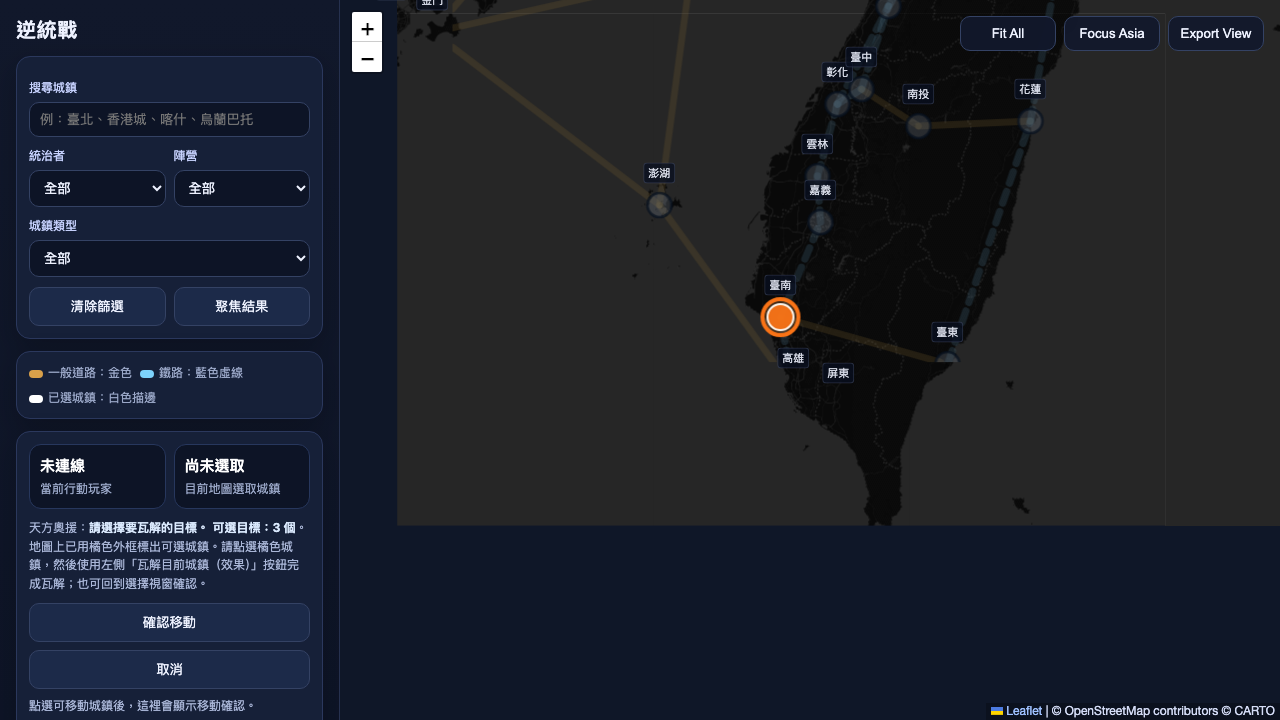
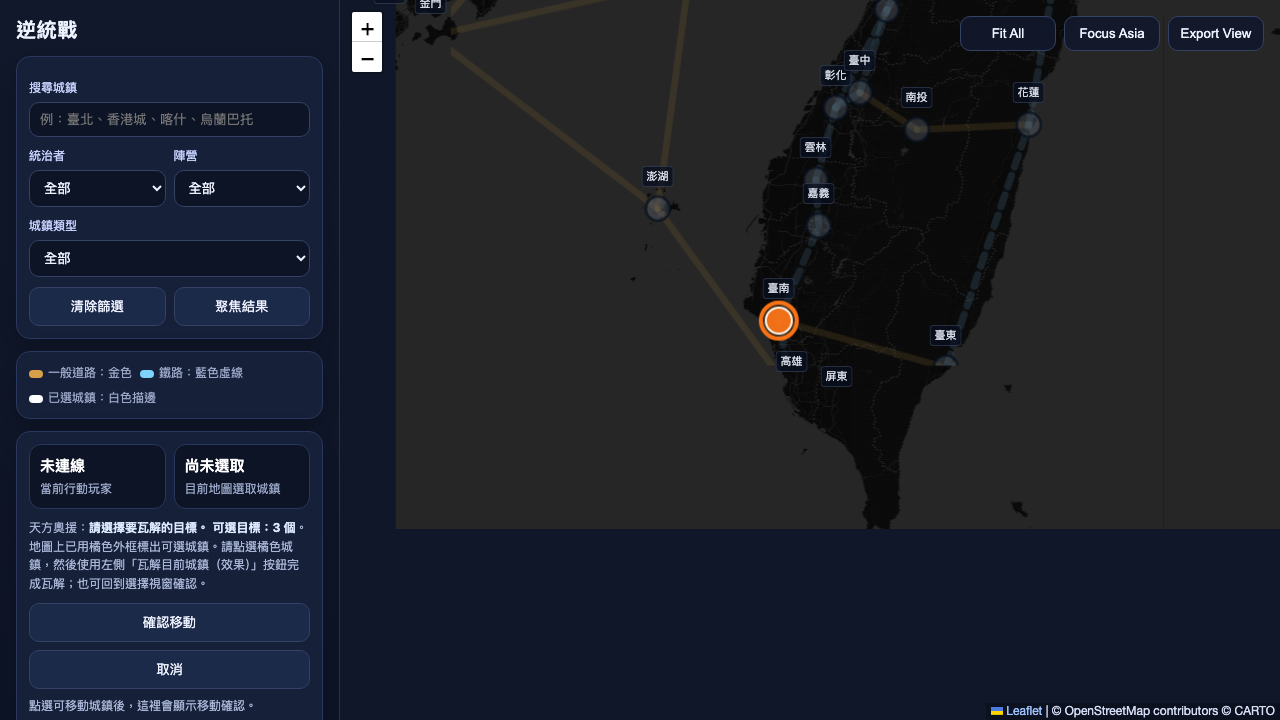
fix: don't double the source-name prefix in the map choice hint (P1)
The server build/target prompts already start with "<source>：" and the
map hint also prepends "${sourceName}：", so the hint read e.g.
"宣傳家：宣傳家：選擇要建立組織的城鎮。". renderSupportChoiceHighlights now
strips a leading "${sourceName}：" from the prompt before combining, so
the label prints once; prompts without that prefix (e.g. event builds)
still get the "來源：prompt" form unchanged.

Covered by a new assertion in validate_buildable_town_count.py (4/4)
and confirmed via a real 宣傳家 playthrough.

diff --git a/static/leaflet_game_map_logic.js b/static/leaflet_game_map_logic.js
@@ -281,7 +281,14 @@ function renderSupportChoiceHighlights(options = {}) {
       const countText = isBuildChoice
         ? `<span class="hint-strong">可建立城鎮：${bounds.length} 個</span>。`
         : `<span class="hint-strong">可選目標：${bounds.length} 個</span>。`;
-      hintEl.innerHTML = `${supportChoiceHighlight.sourceName || '當前選擇'}：<span class="hint-strong">${supportChoiceHighlight.prompt || '請依列表選擇目標。'}</span> ${countText}地圖上已用橘色外框標出可選城鎮。${focusText}${actionText}`;
+      const sourceLabel = supportChoiceHighlight.sourceName || '當前選擇';
+      // The server prompt often already carries a "<source>：" prefix; strip it so the label
+      // isn't printed twice (e.g. "宣傳家：宣傳家：…").
+      let promptText = supportChoiceHighlight.prompt || '請依列表選擇目標。';
+      if (supportChoiceHighlight.sourceName && promptText.startsWith(`${supportChoiceHighlight.sourceName}：`)) {
+        promptText = promptText.slice(`${supportChoiceHighlight.sourceName}：`.length);
+      }
+      hintEl.innerHTML = `${sourceLabel}：<span class="hint-strong">${promptText}</span> ${countText}地圖上已用橘色外框標出可選城鎮。${focusText}${actionText}`;
     }
     if (autoFocus) {
       focusSupportChoiceTargets(focusedBounds || bounds);

diff --git a/static/leaflet_game_map.html b/static/leaflet_game_map.html
@@ -147,6 +147,6 @@
 </div>
 
 <script src="https://unpkg.com/leaflet@1.9.4/dist/leaflet.js"></script>
-<script src="/static/leaflet_game_map_logic.js?v=buildable-count-20260713c"></script>
+<script src="/static/leaflet_game_map_logic.js?v=buildable-count-dedup-20260713d"></script>
 </body>
 </html>

diff --git a/scripts/validate_buildable_town_count.py b/scripts/validate_buildable_town_count.py
@@ -65,7 +65,9 @@ def main() -> None:
         page.goto(URL, wait_until="networkidle")
         page.wait_for_timeout(400)
 
-        build = inject_and_read(page, "card_build_organization", BUILD_TOWNS, "宣傳家", "請選擇要建立組織的城鎮。")
+        # Use a prompt that already carries the "<source>：" prefix, exactly like the real
+        # server build prompt, so the de-duplication behaviour is exercised.
+        build = inject_and_read(page, "card_build_organization", BUILD_TOWNS, "宣傳家", "宣傳家：選擇要建立組織的城鎮。")
         # Each buildable town renders exactly one orange outer ring (the inner marker is
         # off-white), so the orange-ring count is the clickable/buildable town count.
         record(
@@ -77,6 +79,11 @@ def main() -> None:
             "build_count_matches_rendered_orange_markers",
             build["orangeMarkers"] == len(BUILD_TOWNS),
             {"orangeMarkers": build["orangeMarkers"], "towns": len(BUILD_TOWNS)},
+        )
+        record(
+            "build_hint_does_not_duplicate_the_source_prefix",
+            "宣傳家：宣傳家：" not in build["hint"] and build["hint"].startswith("宣傳家：選擇要建立組織的城鎮。"),
+            {"hint": build["hint"]},
         )
 
         target = inject_and_read(page, "support_interaction", TARGET_TOWNS, "天方奧援", "請選擇要瓦解的目標。")

diff --git a/TODO.md b/TODO.md
@@ -130,7 +130,8 @@
   - 2026-07-05 回報想法：玩家應能直接看到目前還有幾個城鎮可以建立，避免只能靠地圖高亮逐一判斷。
   - 期望：在建立組織相關 UI 中顯示可建立城鎮數量；若受陣營適用城鎮、牆內/牆外、敵方佔領、事件/卡牌限制影響，數字應跟實際可點擊/可建立名單一致。
   - 需檢查：`static/leaflet_game_map_logic.js` 建立高亮資料、`static/app.js` sidebar/action prompt 顯示、後端 build eligibility/state projection 是否能提供一致的可建立城鎮 count。
-  - 2026-07-13 已修正並提交：建立組織（`宣傳家`／`思想家`／組織經驗甲／事件／時代 build）觸發時，後端 `_card_build_town_choices()` 已算好一份可建立城鎮清單、透過 pending choice 的 `towns` 送到前端、由地圖以橘色外框高亮（`renderSupportChoiceHighlights`），但畫面一直沒把數量寫出來。修正：在地圖左側 `#interactionHint` 的 build 提示前加上「可建立城鎮：N 個」，N＝`bounds.length`（實際渲染上地圖、可點擊的橘圈數，等同可建清單長度，天然與高亮一致，也自動反映陣營適用／牆內外／敵佔／`restrict_build` 事件等所有後端過濾）；非 build 的目標選擇（瓦解等）則顯示「可選目標：N 個」。不動後端規則，資料源就是既有 `towns` 陣列。驗證 `python3 scripts/validate_buildable_town_count.py`（3/3：build 選擇顯示「可建立城鎮：N 個」且 N＝橘圈數、非 build 顯示「可選目標：N 個」且不含「可建立城鎮」字樣）；另以真實出牌端到端確認：`宣傳家`（range 1、組織在臺北）打出後 build 選擇實際可建＝基隆／桃園／臺北 3 城，地圖 hint 顯示「可建立城鎮：3 個」與伺服器清單一致。proof `docs/records/map-ui/BUILDABLE_TOWN_COUNT_VALIDATION.{json,md}` + `.png`。既知既有小瑕疵（非本項）：伺服器 build prompt 已含卡名前綴，故 hint 開頭會出現「宣傳家：宣傳家：」重複，屬另一個文案 polish。
+  - 2026-07-13 已修正並提交：建立組織（`宣傳家`／`思想家`／組織經驗甲／事件／時代 build）觸發時，後端 `_card_build_town_choices()` 已算好一份可建立城鎮清單、透過 pending choice 的 `towns` 送到前端、由地圖以橘色外框高亮（`renderSupportChoiceHighlights`），但畫面一直沒把數量寫出來。修正：在地圖左側 `#interactionHint` 的 build 提示前加上「可建立城鎮：N 個」，N＝`bounds.length`（實際渲染上地圖、可點擊的橘圈數，等同可建清單長度，天然與高亮一致，也自動反映陣營適用／牆內外／敵佔／`restrict_build` 事件等所有後端過濾）；非 build 的目標選擇（瓦解等）則顯示「可選目標：N 個」。不動後端規則，資料源就是既有 `towns` 陣列。驗證 `python3 scripts/validate_buildable_town_count.py`（4/4：build 選擇顯示「可建立城鎮：N 個」且 N＝橘圈數、非 build 顯示「可選目標：N 個」且不含「可建立城鎮」字樣、build hint 不重複卡名前綴）；另以真實出牌端到端確認：`宣傳家`（range 1、組織在臺北）打出後 build 選擇實際可建＝基隆／桃園／臺北 3 城，地圖 hint 顯示「可建立城鎮：3 個」與伺服器清單一致。proof `docs/records/map-ui/BUILDABLE_TOWN_COUNT_VALIDATION.{json,md}` + `.png`。
+  - 2026-07-13 附帶修正（同批）：伺服器 build/target prompt 已含 `{source_name}：` 前綴、而地圖 hint 又用 `${sourceName}：${prompt}` 組合，導致 hint 開頭重複顯示卡名（例「宣傳家：宣傳家：…」）。此重複在本計數功能之前就已存在。修正：`renderSupportChoiceHighlights` 顯示前，若 prompt 已以 `${sourceName}：` 開頭則去掉該前綴再組合（event 等 prompt 未帶前綴者維持 `來源：prompt` 不受影響）。驗證涵蓋於上述 `validate_buildable_town_count.py` 第 4 條並以真實出牌確認 hint 不再重複。
 
 - [done] Playtest card rule bug：`誘導虛耗` 只能移除剛打出的 `誘導虛耗` 本身，不能移除其他卡牌。
   - 2026-07-05 回報情境：使用 `誘導虛耗` 後，UI 顯示「你可以移除剛打出的這張牌，或移除 1 張手牌」，並列出手牌中的 `天方奧援`、`內鬥`、`追隨者`、`樂捐者` 等可移除選項。

diff --git a/docs/records/map-ui/BUILDABLE_TOWN_COUNT_VALIDATION.md b/docs/records/map-ui/BUILDABLE_TOWN_COUNT_VALIDATION.md
@@ -2,10 +2,11 @@
 
 可重跑指令：`python3 scripts/validate_buildable_town_count.py`
 
-- total: 3 / passed: 3 / failed: 0
+- total: 4 / passed: 4 / failed: 0
 
 ## Results
 
-- PASS build_choice_shows_buildable_count_matching_towns: {"hint": "宣傳家：請選擇要建立組織的城鎮。 可建立城鎮：5 個。地圖上已用橘色外框標出可選城鎮。請點選橘色城鎮，然後使用左側「在目前城鎮建立組織（效果）」按鈕完成建立。", "expected": 5}
+- PASS build_choice_shows_buildable_count_matching_towns: {"hint": "宣傳家：選擇要建立組織的城鎮。 可建立城鎮：5 個。地圖上已用橘色外框標出可選城鎮。請點選橘色城鎮，然後使用左側「在目前城鎮建立組織（效果）」按鈕完成建立。", "expected": 5}
 - PASS build_count_matches_rendered_orange_markers: {"orangeMarkers": 5, "towns": 5}
+- PASS build_hint_does_not_duplicate_the_source_prefix: {"hint": "宣傳家：選擇要建立組織的城鎮。 可建立城鎮：5 個。地圖上已用橘色外框標出可選城鎮。請點選橘色城鎮，然後使用左側「在目前城鎮建立組織（效果）」按鈕完成建立。"}
 - PASS non_build_target_choice_shows_target_count: {"hint": "天方奧援：請選擇要瓦解的目標。 可選目標：3 個。地圖上已用橘色外框標出可選城鎮。請點選橘色城鎮，然後使用左側「瓦解目前城鎮（效果）」按鈕完成瓦解；也可回到選擇視窗確認。", "expected": 3}
